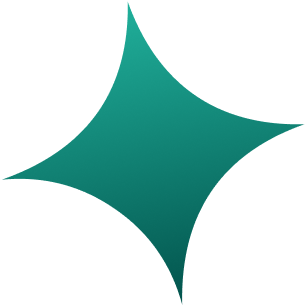
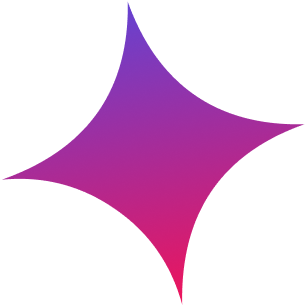
feat: update poster config for d-zone

Changed region(s): [[0.0, 0.0, 0.9967, 0.9967]]

diff --git a/src/components/Poster/index.jsx b/src/components/Poster/index.jsx
@@ -10,7 +10,6 @@ import {
     off_stage_star_2,
     stage_glory_logo,
     off_stage_glory_logo,
-    catalyst_logo,
 } from "@/assets/poster/2026/index.js";
 import classNames from 'classnames';
 import './style.css';
@@ -55,11 +54,11 @@ function index({ data }) {
                     <img src={data?.stageStatus ? stage_header : off_stage_header} alt="header" className='max-w-[205px]' />
                 </div>
 
-                <div className={`${data?.stageStatus ? 'result-bg-stage' : 'result-bg-off-stage'} relative mt-5 pt-9 pb-4 flex flex-col items-center w-full min-h-[260px] rounded-t-full before:rounded-t-full after:rounded-t-full`}>
+                <div className={`${data?.stageStatus ? 'result-bg-stage' : 'result-bg-off-stage'} relative mt-3 pt-9 pb-4 flex flex-col items-center w-full min-h-[260px] rounded-t-full before:rounded-t-full after:rounded-t-full`}>
 
                     <div className={`${data?.stageStatus ? 'result-bg-inner-stage' : 'result-bg-inner-off-stage'} result-bg-inner rounded-t-full before:rounded-t-full`} />
                     
-                    <div className={`${data?.stageStatus ? 'border-[#2E9ECD] text-[#2E9ECD] drop-shadow-[0_3px_0_#012161]' : 'border-[#20B09B] text-[#20B09B] drop-shadow-[0_3px_0_#02534C]'} bg-white border rounded-full px-2 py-1 max-w-[185px] text-center mx-auto`}>
+                    <div className={`${data?.stageStatus ? 'border-[#F06323] text-[#F06323] drop-shadow-[0_3px_0_#F06323]' : 'border-[#6442D2] text-[#6442D2] drop-shadow-[0_3px_0_#EE145B]'} bg-white border rounded-full px-2 py-1 max-w-[185px] text-center mx-auto`}>
                         <p className={classNames('text-[11px] leading-3 font-extrabold text-center wordIssue',
                             {
                                 'text-[10px] ': data?.programName?.length > 20,
@@ -74,7 +73,7 @@ function index({ data }) {
                                         alt=""
                                         className="w-7 h-[39.28px]"
                                     />
-                                    <span className={`absolute top-1/2 right-1/2 translate-x-1/2 -translate-y-1/2 text-[10px] font-semibold ${data?.stageStatus ? 'text-[#012161]' : 'text-[#02534C]'}`}>
+                                    <span className={`absolute top-1/2 right-1/2 translate-x-1/2 -translate-y-1/2 text-[10px] font-semibold ${data?.stageStatus ? 'text-[#A00339]' : 'text-[#6A40CD]'}`}>
                                         0{winner?.position}
                                     </span>
                                 </div>
@@ -128,7 +127,6 @@ function index({ data }) {
                 </div>
                 <div className="flex justify-between items-center w-full mt-2">
                     <img src={data?.stageStatus ? stage_glory_logo : off_stage_glory_logo} alt="gloryBoard Logo" className='w-10' />
-                    <img src={catalyst_logo} alt="catalyst Logo" className='w-16 -mr-2' />
                 </div>
             </div>
 

diff --git a/src/components/IndividualResultPoster/index.jsx b/src/components/IndividualResultPoster/index.jsx
@@ -15,17 +15,17 @@ const getConfigByPosition = (position) => {
             return {
                 bg: individual_first_bg,
                 badge: first_badge,
-                titleStyle: 'border-[#789D29] text-[#789D29]',
-                nameStyle: 'text-[#1A2600]',
-                collegeStyle: 'text-[#789D29]',
+                titleStyle: 'border-[#084A46] text-[#01A89E]',
+                nameStyle: 'text-[#084A46]',
+                collegeStyle: 'text-[#01A89E]',
             };
         case 2:
             return {
                 bg: individual_second_bg,
                 badge: second_badge,
-                titleStyle: 'border-[#0AAD5C] text-[#0AAD5C]',
-                nameStyle: 'text-[#093E32]',
-                collegeStyle: 'text-[#0AAD5C]',
+                titleStyle: 'border-[#429545] text-[#429545]',
+                nameStyle: 'text-[#0C390D]',
+                collegeStyle: 'text-[#429545]',
             };
         case 3:
             return {
@@ -39,14 +39,14 @@ const getConfigByPosition = (position) => {
             return {
                 bg: individual_first_bg,
                 badge: first_badge,
-                titleStyle: 'border-[#789D29] text-[#789D29]',
-                nameStyle: 'text-[#1A2600]',
-                collegeStyle: 'text-[#789D29]',
+                titleStyle: 'border-[#8EC63F] text-[#8EC63F]',
+                nameStyle: 'text-[#598B13]',
+                collegeStyle: 'text-[#8EC63F]',
             };
     }
 }
 
-function IndividualResultPoster(data ) {
+function IndividualResultPoster(data) {
 
     function ExtractedText(text) {
         if (!text) {

diff --git a/src/components/Poster/style.css b/src/components/Poster/style.css
@@ -18,15 +18,15 @@
     z-index: -1;
 }
 .result-bg-inner-stage {
-    background: linear-gradient(180deg, #146BB6 0%, #012161 100%);
+    background: linear-gradient(180deg, #9E0039 0%, #F26522 100%);
 }
 .result-bg-inner-off-stage {
-    background: linear-gradient(180deg, #20B09B 0%, #02534C 100%);
+    background: linear-gradient(180deg, #6442D2 0%, #EE145B 100%);
 }
 
 .result-bg-stage {
-    background: linear-gradient(180deg, #146BB6 0%, #012161 100%);
+    background: linear-gradient(180deg, #9E0039 0%, #F26522 100%);
 }
 .result-bg-off-stage {
-    background: linear-gradient(180deg, #20B09B 0%, #02534C 100%);
+    background: linear-gradient(180deg, #6442D2 0%, #EE145B 100%);
 }

diff --git a/src/components/CollegeLeaderboardPoster/2026/index.jsx b/src/components/CollegeLeaderboardPoster/2026/index.jsx
@@ -32,7 +32,7 @@ function index({ data ,ResultCount}) {
                     style={{
                         background: 'radial-gradient(52.63% 52.63% at 50% 50%, #8DC63F 0%, #419544 100%)'
                     }}>
-                        After<div className='bg-[#419544] rounded-sm px-[2px] text-shadow-xs'>{ResultCount}</div>Results
+                        After<div className='bg-[#8EC63F] rounded-sm px-[2px] text-shadow-xs'>{ResultCount}</div>Results
                     </div>
                     <div className="mt-3 mb-32 space-y-[5px] h-fit">
                         {top5Colleges.map((college, index) => (

diff --git a/src/assets/poster/2026/index.js b/src/assets/poster/2026/index.js
@@ -8,7 +8,6 @@ import off_stage_star_1 from "./program/off_stage_star_1.png";
 import off_stage_star_2 from "./program/off_stage_star_2.png";
 import stage_glory_logo from "./program/stage_glory_logo.png";
 import off_stage_glory_logo from "./program/off_stage_glory_logo.png";
-import catalyst_logo from "./program/catalyst_logo.png";
 
 import top_element from "./leaderboard/top_element.png";
 import bottom_element from "./leaderboard/bottom_element.png";
@@ -41,5 +40,4 @@ export {
     off_stage_star_2,
     stage_glory_logo,
     off_stage_glory_logo,
-    catalyst_logo,
 }
